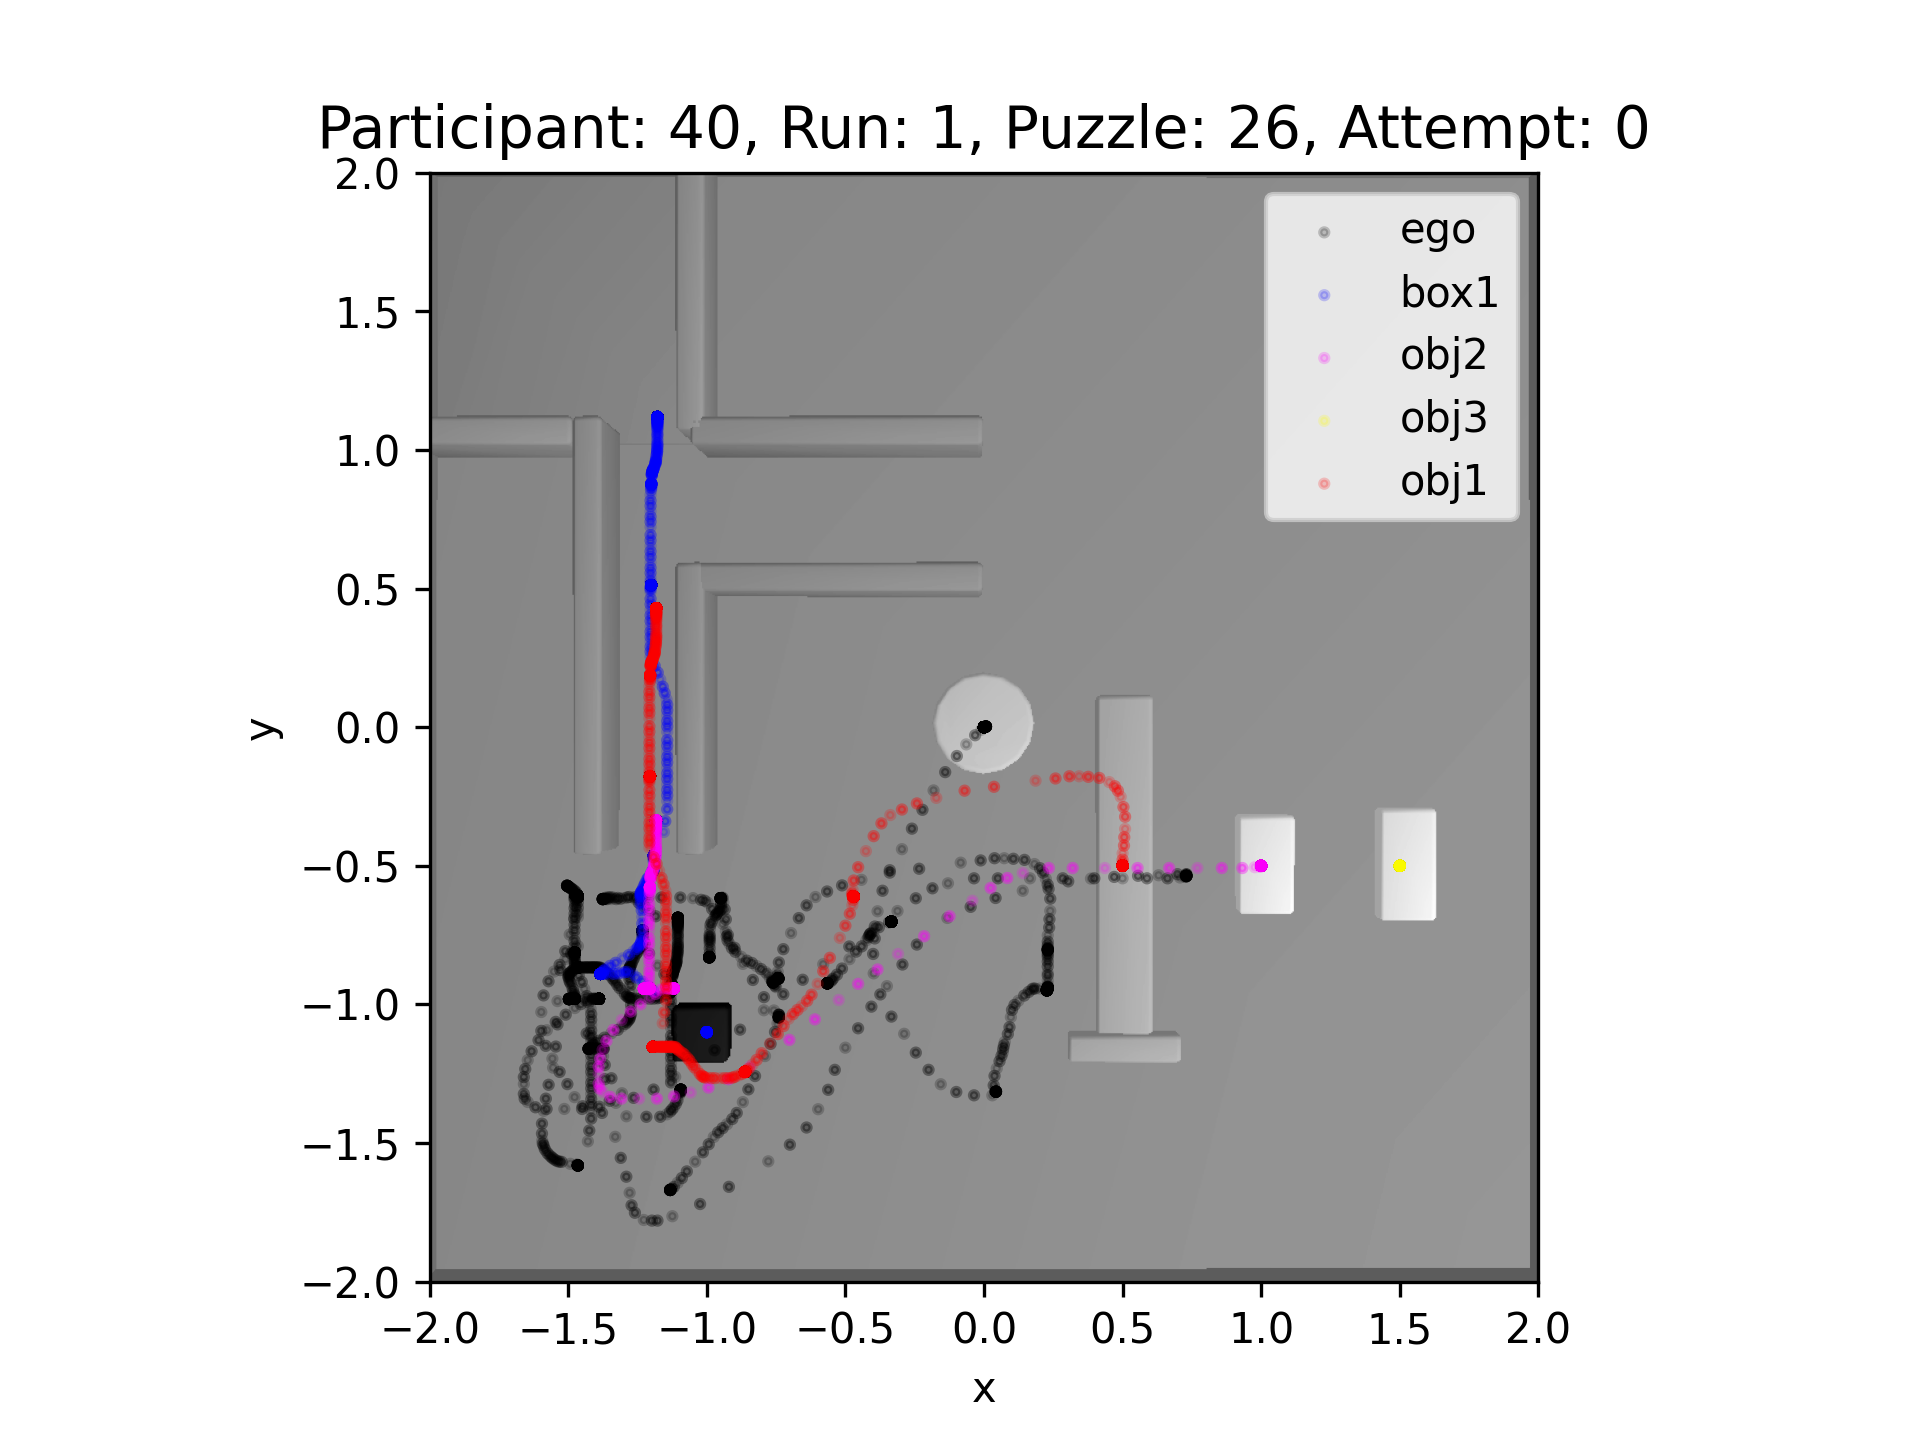
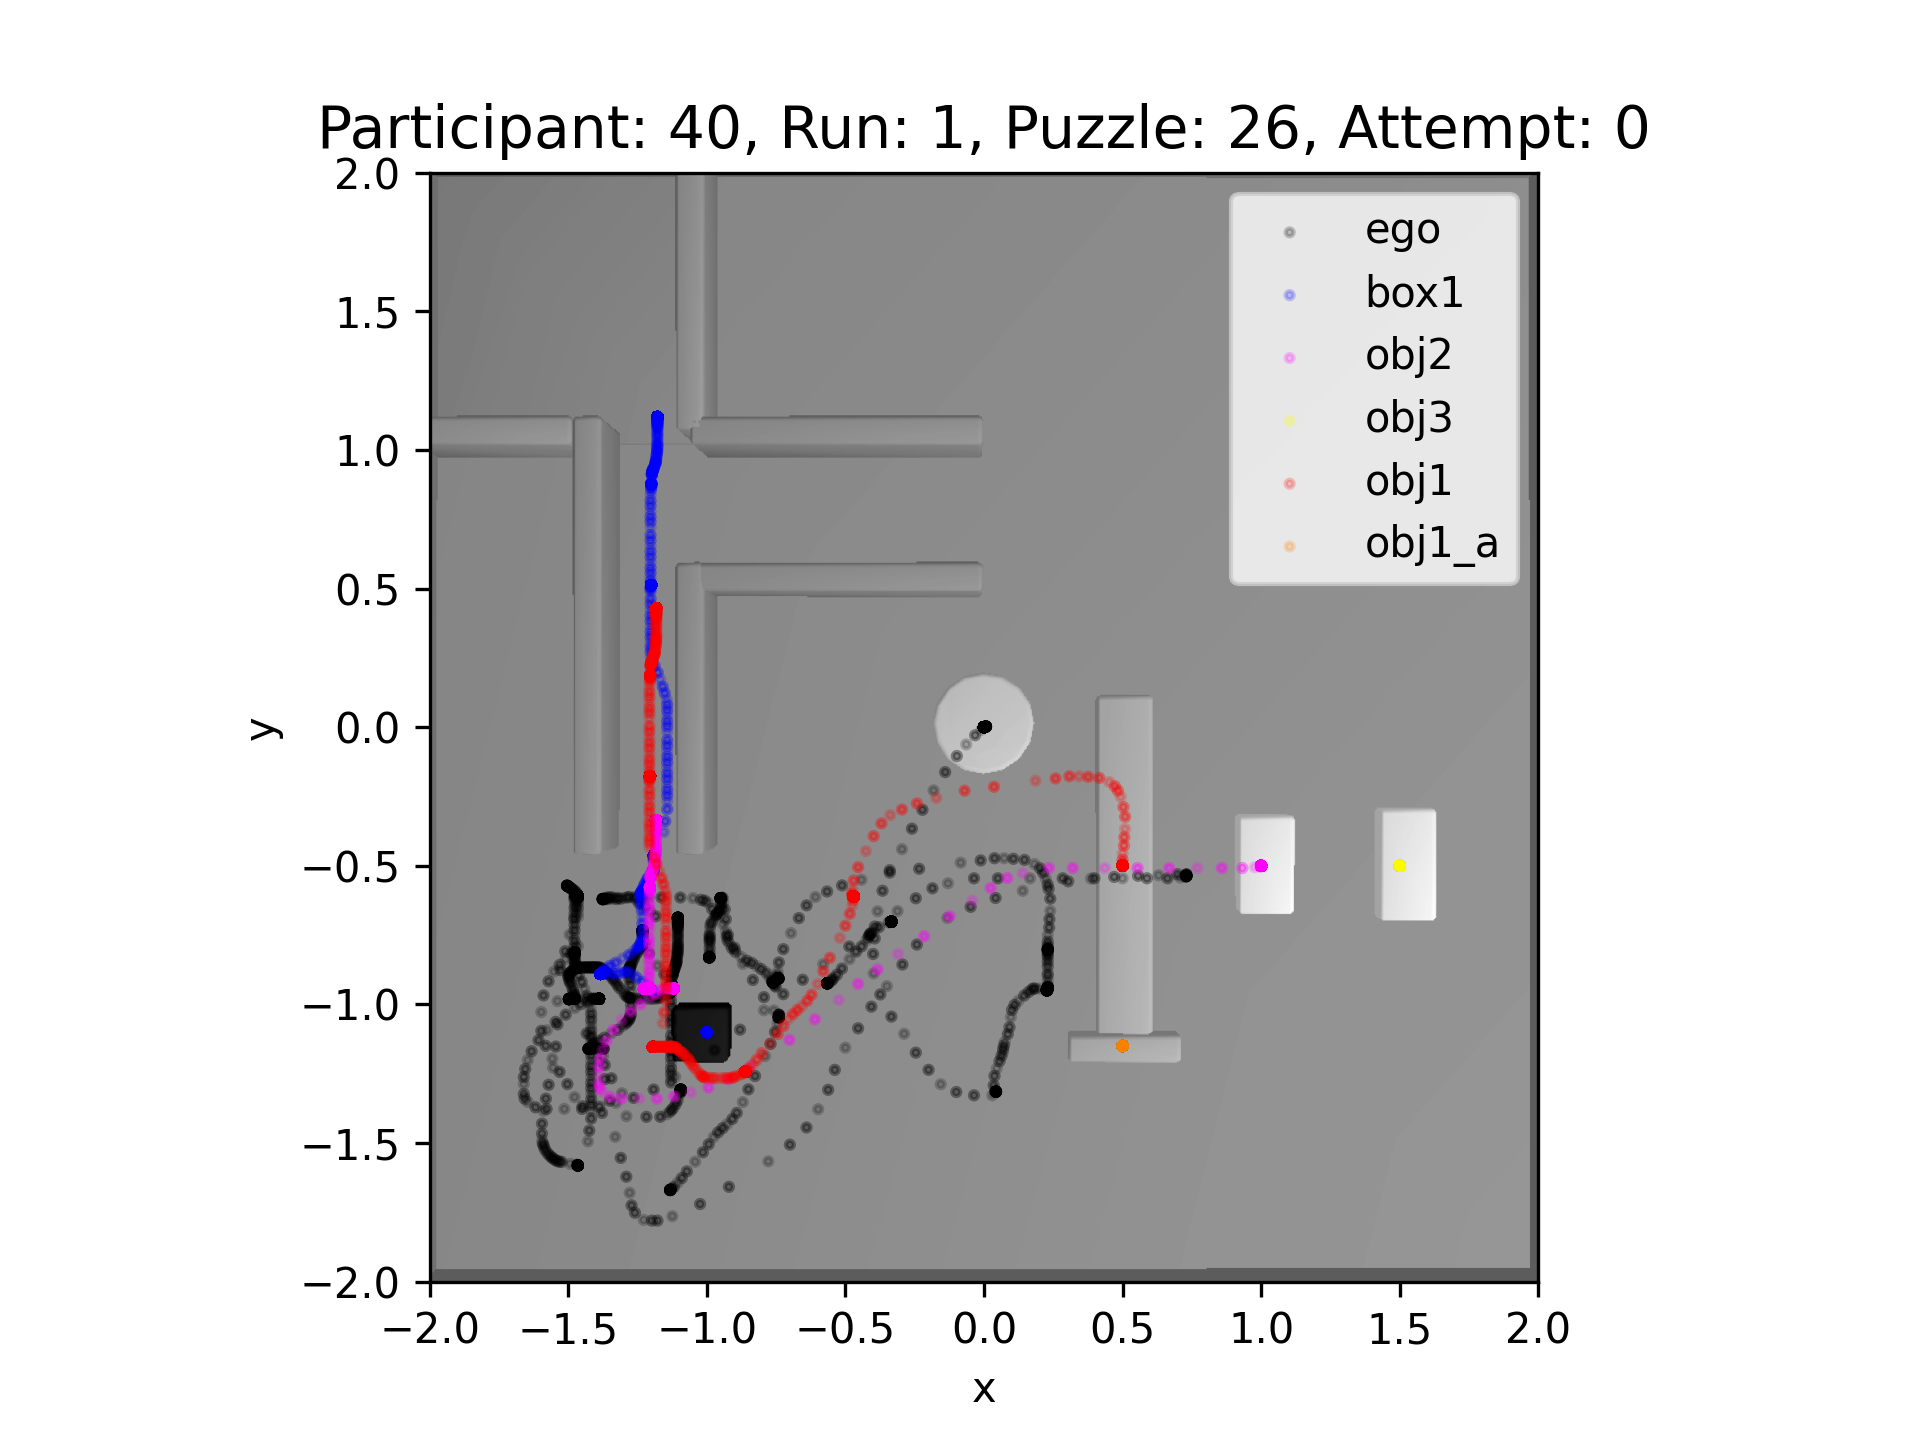
reccognize obj1_a for puzzle 26 and rerun distance matrix and clustering,

Changed region(s): [[0.625, 0.125, 0.8125, 0.4062]]

diff --git a/SRC/clusterPositionalVector.py b/SRC/clusterPositionalVector.py
@@ -22,6 +22,8 @@ def coloring(object,dummy = False):
             return (0,1,0) 
         elif object=='obj1':
             return (1,0,0) 
+        elif type=='obj1_a':
+            return (1,0.5,0)
         elif object=='obj2':
             return (1,0,1) 
         elif object=='obj3':
@@ -37,6 +39,8 @@ def coloring(object,dummy = False):
             return [(0,1,0,c) for c in np.linspace(0,1,100)]
         elif object=='obj1':
             return [(1,0,0,c) for c in np.linspace(0,1,100)]
+        elif object=='obj1_a':
+            return [(1,0.5,0,c) for c in np.linspace(0,1,100)]
         elif object=='obj2':
             return [(1,0,1,c) for c in np.linspace(0,1,100)]
         elif object=='obj3':
@@ -63,7 +67,7 @@ def positional_vector(data):
     for definition in last_frame:
         present_objects[definition["ID"]] = definition["name"]
 
-    universal_Objects = ["box1","box2", "obj1","obj2", "obj3","obj4","ego"]
+    universal_Objects = ["box1","box2", "obj1","obj2", "obj3","obj4","ego","obj1_a"]
     
     for x in list(present_objects):
         if present_objects[x] not in universal_Objects:
@@ -223,8 +227,8 @@ frame_folders = ["./Data/Pilot3/Frames/", "./Data/Pilot4/Frames/"]
 
 
 sequence_type="POSVEC"
-pcns=[[1,3],[2,3], [3,3], [4,2], [5,3], [6,3], [21,3], [22,3], [23,2], [24,4], [25,3], [26,2]]
-# pcns=[[1,5]]
+# pcns=[[1,3],[2,3], [3,3], [4,2], [5,3], [6,3], [21,3], [22,3], [23,2], [24,4], [25,3], [26,2]]
+pcns=[[26,4]]
 
 use_saved_linkage = True
 
@@ -257,7 +261,14 @@ for pcn in pcns:
             if cluster_id not in cluster_ids:
                 cluster_ids[cluster_id] = []
             cluster_ids[cluster_id].append(ids[i])
+        
+        #turn dict keys to int
+        cluster_ids = {int(k): v for k, v in cluster_ids.items()}
 
+        #save the cluster ids as json file
+        with open(f'{plotPath}/cluster_ids_puzzle{puzzleNumber}_{sequence_type}.json', 'w') as fp:
+            json.dump(cluster_ids, fp)
+    
         for cluster_id, data_ids in cluster_ids.items():
             first_image, frames = gif(desired_puzzle=puzzleNumber,ids=data_ids)
             first_image.save(f'{plotPath}/Cluster{cluster_id}_puzzle{puzzleNumber}_{sequence_type}.gif', save_all=True, append_images=frames, duration=500, loop=0)
@@ -327,16 +338,19 @@ for pcn in pcns:
 
 print("--- %s seconds ---" % (time.time() - start_time)) 
 
-# repo_path = './'
+repo_path = './'
 
-# os.chdir(repo_path)
+os.chdir(repo_path)
 
-# subprocess.run(['git', 'add', '.'])
+subprocess.run(['git', 'add', '.'])
 
-# subprocess.run(['git', 'commit', '-m', "Automated commit: joint figure of dendrogram and heatmap runned for all pnp puzzles"])
+subprocess.run(['git', 'commit', '-m', "reccognize obj1_a for puzzle 26 and rerun distance matrix and clustering, "])
 
-# subprocess.run(['git', 'push'])
+subprocess.run(['git', 'push'])
 
 # subprocess.run(['sudo', 'shutdown', '-h', '+5'])
+
+# subprocess.Popen(['echo', password], stdout=subprocess.PIPE)
+
 
 

diff --git a/SRC/PathsFrame.py b/SRC/PathsFrame.py
@@ -17,6 +17,8 @@ def coloring(type,c):
         return (0,1,0,c)
     elif type=='obj1':
         return (1,0,0,c)
+    elif type=='obj1_a':
+        return (1,0.5,0,c)
     elif type=='obj2':
         return (1,0,1,c)
     elif type=='obj3':
@@ -42,14 +44,15 @@ def positional_vector(data):
     present_objects = {}
     for definition in last_frame:
         present_objects[definition["ID"]] = definition["name"]
+    # print(present_objects)
 
-    universal_Objects = ["box1","box2", "obj1","obj2", "obj3","obj4","ego"]
+    universal_Objects = ["box1","box2", "obj1","obj2", "obj3","obj4","ego","obj1_a"]
     
     for x in list(present_objects):
         if present_objects[x] not in universal_Objects:
             # print(present_objects[x])
             present_objects.pop(x)
-    
+    # print(present_objects)
     positional_vector=pd.DataFrame(columns=present_objects)
     sub_columns = pd.MultiIndex.from_product([positional_vector.columns, ['x', 'y']], names=['ID', 'position'])
     positional_vector = pd.DataFrame(index=range(len(data.frames)), columns=sub_columns)
@@ -88,7 +91,7 @@ def main():
             if filename.endswith('.json'):
                 participant_id, run, puzzle, attempt = use_regex(filename)
  
-            if participant_id==40 :
+            if puzzle==26 :
 
                 with open(os.path.join(folder,filename)) as json_file:
                             

diff --git a/SRC/strategySwitch.py b/SRC/strategySwitch.py
@@ -3,6 +3,7 @@ import os
 import pandas as pd
 import json
 import matplotlib.pyplot as plt
+import ast
 
 def df_from_json(file):
     file = json.load(open(file))
@@ -19,9 +20,31 @@ unique_participants = np.array(unique_participants)
 unique_puzzles = df["puzzle_id"].unique().tolist()
 unique_puzzles = np.array(unique_puzzles)
 
-# go through every row in the dataframe
+strategy_run1 = np.empty((len(unique_participants), len(unique_puzzles)))
 
-for 
+
+for solutions in df.iterrows():
+    participant_id = solutions[1]["participant_id"]
+    puzzle_id = solutions[1]["puzzle_id"]
+    run= solutions[1]["run"]
+    attempt = solutions[1]["attempt"]
+
+    id = str(participant_id) + "_"  + str(run) + "_"+ str(puzzle_id) + "_" + str(attempt)
+
+    if puzzle_id in [1, 2, 3, 4,5, 6, 21, 22, 23, 24, 25, 26]:
+        cluster_file = f"./Plots_Text/clustering/puzzle{puzzle_id}_POSVEC/cluster_ids_puzzle{puzzle_id}_POSVEC.json"
+
+        with open(cluster_file) as json_file:
+            cluster_ids = json.load(json_file)
+
+        for idx, cluster in cluster_ids.items():
+            if id in cluster:
+                print( id, idx)
+                # strategy_switch[unique_participants == participant_id, unique_puzzles == puzzle_id] = idx
+
+
+
+       
 
 
         
